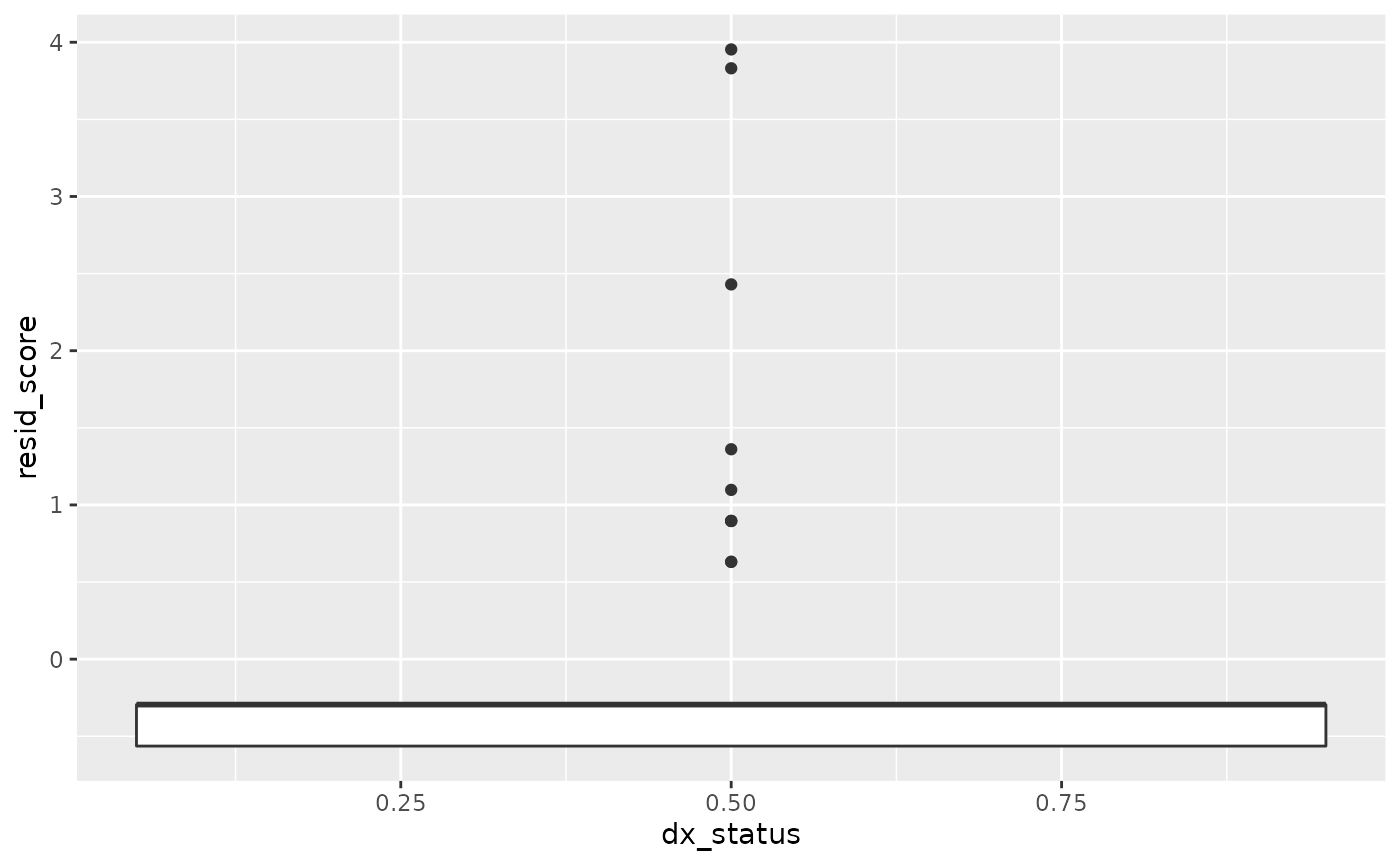
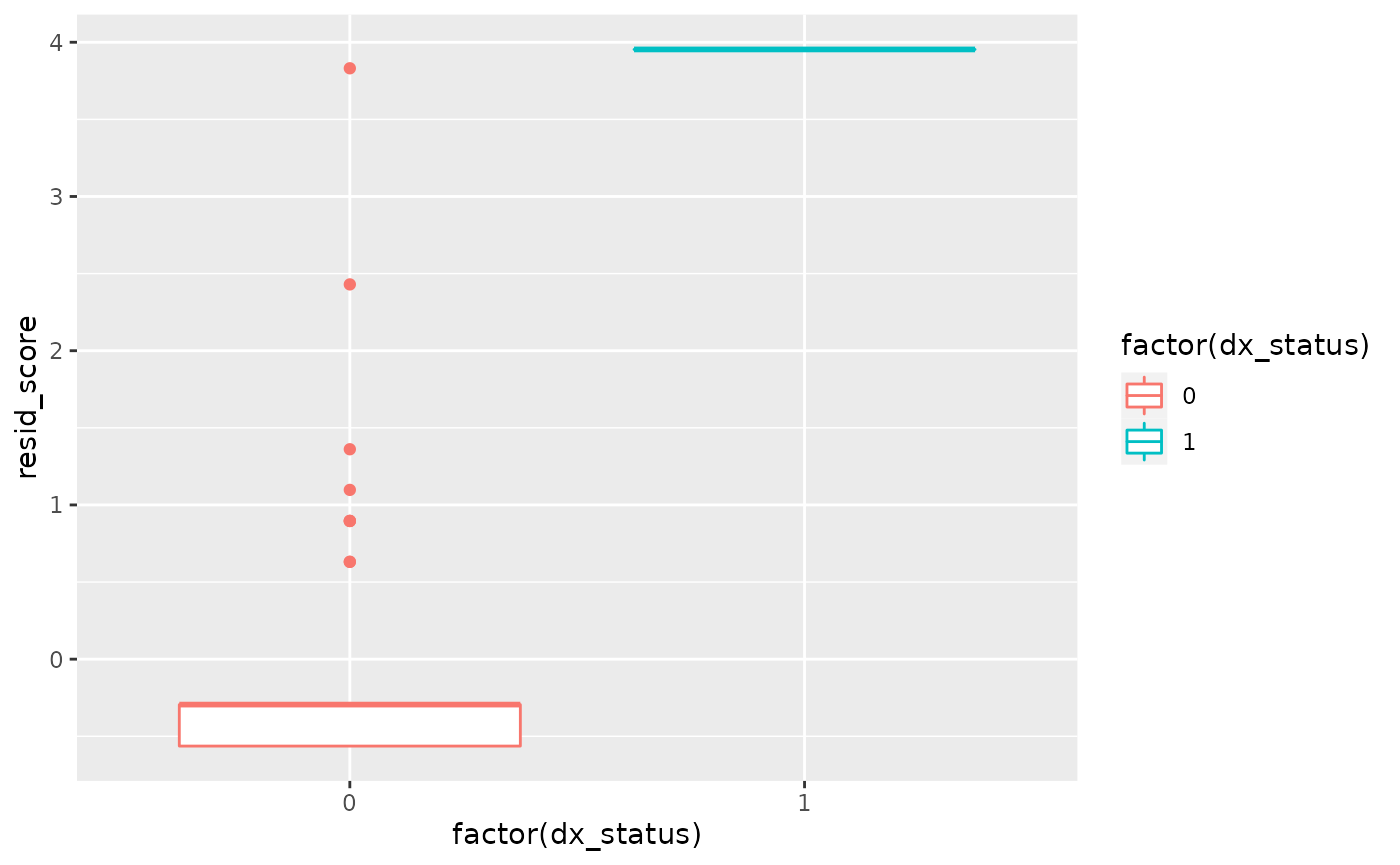
Built site for phers: 0.0.0.9000@0c04c74

diff --git a/articles/generate_phers.html b/articles/generate_phers.html
@@ -134,27 +134,27 @@
 
 <span class="va">genoStats</span>
 <span class="co">#&gt;       vid gene disease_id n_total n_wt n_het n_hom        beta        se</span>
-<span class="co">#&gt;  1:  snp1 FBN1     154700      50   37     6     7  0.09127495 0.3104743</span>
-<span class="co">#&gt;  2: snp10 FBN1     154700      50   38     8     4  0.13439432 0.3551369</span>
-<span class="co">#&gt;  3:  snp2 FBN1     154700      50   38     8     4 -0.26837334 0.3512867</span>
-<span class="co">#&gt;  4:  snp3 FBN1     154700      50   40     8     2 -0.12225112 0.4215441</span>
-<span class="co">#&gt;  5:  snp4 FBN1     154700      50   39     9     2 -0.03967130 0.4137205</span>
-<span class="co">#&gt;  6:  snp5 FBN1     154700      50   38     8     4 -0.50278048 0.3451162</span>
-<span class="co">#&gt;  7:  snp6 FBN1     154700      50   38     7     5 -0.42262633 0.3265978</span>
-<span class="co">#&gt;  8:  snp7 FBN1     154700      50   40    10     0 -0.26154723 0.5389608</span>
-<span class="co">#&gt;  9:  snp8 FBN1     154700      50   42     7     1  0.15215544 0.4996790</span>
-<span class="co">#&gt; 10:  snp9 FBN1     154700      50   43     6     1 -0.54231663 0.5121399</span>
-<span class="co">#&gt;          pval   ci_lower  ci_upper</span>
-<span class="co">#&gt;  1: 0.7700634 -0.5172435 0.6997934</span>
-<span class="co">#&gt;  2: 0.7068155 -0.5616613 0.8304499</span>
-<span class="co">#&gt;  3: 0.4487021 -0.9568826 0.4201359</span>
-<span class="co">#&gt;  4: 0.7730859 -0.9484624 0.7039602</span>
-<span class="co">#&gt;  5: 0.9240163 -0.8505486 0.7712060</span>
-<span class="co">#&gt;  6: 0.1518083 -1.1791958 0.1736348</span>
-<span class="co">#&gt;  7: 0.2019789 -1.0627463 0.2174937</span>
-<span class="co">#&gt;  8: 0.6297318 -1.3178911 0.7947966</span>
-<span class="co">#&gt;  9: 0.7620864 -0.8271975 1.1315083</span>
-<span class="co">#&gt; 10: 0.2950469 -1.5460924 0.4614591</span></code></pre></div>
+<span class="co">#&gt;  1:  snp1 FBN1     154700      50   37    10     3  0.27263077 0.3759033</span>
+<span class="co">#&gt;  2: snp10 FBN1     154700      50   38     9     3 -0.52848254 0.3713591</span>
+<span class="co">#&gt;  3:  snp2 FBN1     154700      50   39     8     3 -0.55260749 0.3851431</span>
+<span class="co">#&gt;  4:  snp3 FBN1     154700      50   39     7     4 -0.38751940 0.3511258</span>
+<span class="co">#&gt;  5:  snp4 FBN1     154700      50   41     9     0  0.99842141 0.5429626</span>
+<span class="co">#&gt;  6:  snp5 FBN1     154700      50   42     7     1 -0.35546086 0.4986978</span>
+<span class="co">#&gt;  7:  snp6 FBN1     154700      50   40     7     3 -0.31277313 0.3847088</span>
+<span class="co">#&gt;  8:  snp7 FBN1     154700      50   38    10     2  0.07218095 0.4213235</span>
+<span class="co">#&gt;  9:  snp8 FBN1     154700      50   40     6     4 -0.10532948 0.3607539</span>
+<span class="co">#&gt; 10:  snp9 FBN1     154700      50   40     7     3  0.76430189 0.3742402</span>
+<span class="co">#&gt;           pval    ci_lower  ci_upper</span>
+<span class="co">#&gt;  1: 0.47188322 -0.46412617 1.0093877</span>
+<span class="co">#&gt;  2: 0.16131032 -1.25633294 0.1993679</span>
+<span class="co">#&gt;  3: 0.15796215 -1.30747407 0.2022591</span>
+<span class="co">#&gt;  4: 0.27536439 -1.07571326 0.3006745</span>
+<span class="co">#&gt;  5: 0.07226149 -0.06576575 2.0626086</span>
+<span class="co">#&gt;  6: 0.47950706 -1.33289055 0.6219688</span>
+<span class="co">#&gt;  7: 0.42031024 -1.06678852 0.4412423</span>
+<span class="co">#&gt;  8: 0.86470800 -0.75359800 0.8979599</span>
+<span class="co">#&gt;  9: 0.77159413 -0.81239413 0.6017352</span>
+<span class="co">#&gt; 10: 0.04675700  0.03080457 1.4977992</span></code></pre></div>
 <p>run positive control analysis</p>
 <div class="sourceCode" id="cb4"><pre class="downlit sourceCode r">
 <code class="sourceCode R"><span class="va">dxStatus</span> <span class="op">=</span> <span class="fu"><a href="../reference/getDxStatus.html">getDxStatus</a></span><span class="op">(</span><span class="va">demoSample</span>, <span class="va">icdSample</span><span class="op">)</span>
@@ -162,8 +162,7 @@
 <span class="va">plotInput</span> <span class="op">=</span> <span class="fu"><a href="https://Rdatatable.gitlab.io/data.table/reference/merge.html" class="external-link">merge</a></span><span class="op">(</span><span class="va">rscores</span>, <span class="va">dxStatus</span>, by <span class="op">=</span> <span class="fu"><a href="https://rdrr.io/r/base/c.html" class="external-link">c</a></span><span class="op">(</span><span class="st">'person_id'</span>, <span class="st">'disease_id'</span><span class="op">)</span><span class="op">)</span>
 
 <span class="fu"><a href="https://ggplot2.tidyverse.org/reference/ggplot.html" class="external-link">ggplot</a></span><span class="op">(</span><span class="va">plotInput</span><span class="op">[</span><span class="va">disease_id</span> <span class="op"><a href="https://rdrr.io/r/base/match.html" class="external-link">%in%</a></span> <span class="va">diseaseIds</span><span class="op">]</span><span class="op">)</span> <span class="op">+</span> <span class="fu"><a href="https://ggplot2.tidyverse.org/reference/geom_boxplot.html" class="external-link">geom_boxplot</a></span><span class="op">(</span>
-  <span class="fu"><a href="https://ggplot2.tidyverse.org/reference/aes.html" class="external-link">aes</a></span><span class="op">(</span>x <span class="op">=</span> <span class="va">dx_status</span>, y <span class="op">=</span> <span class="va">resid_score</span>, color <span class="op">=</span> <span class="va">dx_status</span><span class="op">)</span><span class="op">)</span>
-<span class="co">#&gt; Warning: Continuous x aesthetic -- did you forget aes(group=...)?</span></code></pre></div>
+  <span class="fu"><a href="https://ggplot2.tidyverse.org/reference/aes.html" class="external-link">aes</a></span><span class="op">(</span>x <span class="op">=</span> <span class="fu"><a href="https://rdrr.io/r/base/factor.html" class="external-link">factor</a></span><span class="op">(</span><span class="va">dx_status</span><span class="op">)</span>, y <span class="op">=</span> <span class="va">resid_score</span>, color <span class="op">=</span> <span class="fu"><a href="https://rdrr.io/r/base/factor.html" class="external-link">factor</a></span><span class="op">(</span><span class="va">dx_status</span><span class="op">)</span><span class="op">)</span><span class="op">)</span></code></pre></div>
 <p><img src="generate_phers_files/figure-html/unnamed-chunk-4-1.png" width="700"></p>
   </div>
 

diff --git a/reference/getDxStatus.html b/reference/getDxStatus.html
@@ -60,7 +60,12 @@
     </div>
 
     <div id="ref-usage">
-    <div class="sourceCode"><pre class="sourceCode r"><code><span class="fu">getDxStatus</span><span class="op">(</span><span class="va">demos</span>, <span class="va">icdOccurrences</span>, diseaseDxIcdMap <span class="op">=</span> <span class="fu">phers</span><span class="fu">::</span><span class="va"><a href="diseaseDxIcdMap.html">diseaseDxIcdMap</a></span><span class="op">)</span></code></pre></div>
+    <div class="sourceCode"><pre class="sourceCode r"><code><span class="fu">getDxStatus</span><span class="op">(</span>
+  <span class="va">demos</span>,
+  <span class="va">icdOccurrences</span>,
+  minUniqDates <span class="op">=</span> <span class="fl">2</span>,
+  diseaseDxIcdMap <span class="op">=</span> <span class="fu">phers</span><span class="fu">::</span><span class="va"><a href="diseaseDxIcdMap.html">diseaseDxIcdMap</a></span>
+<span class="op">)</span></code></pre></div>
     </div>
 
     <div id="arguments">
@@ -70,7 +75,11 @@
 a column <code>person_id</code>.</p></dd>
 <dt>icdOccurrences</dt>
 <dd><p>A data.table of occurrences of ICD codes for each
-person in the cohort. Must have columns <code>person_id</code>, <code>icd</code>, and <code>flag</code>.</p></dd>
+person in the cohort.
+Must have columns <code>person_id</code>, <code>icd</code>, <code>flag</code>, and <code>entry_date</code>.</p></dd>
+<dt>minUniqDates</dt>
+<dd><p>Positive integer indicating the minimum number of unique
+ICD code entry dates required to classify a person as a case.</p></dd>
 <dt>diseaseDxIcdMap</dt>
 <dd><p>A data.table containing mapping between diseases and
 the icd codes that represent being diagnosed with them. Must have columns

diff --git a/reference/icdSample.html b/reference/icdSample.html
@@ -67,12 +67,14 @@
 
     <div id="format">
     <h2>Format</h2>
-    <p>A data table with 134 rows and the 3 following columns:</p><ul><li><p><code>person_id</code>: Character vector of the identifier for each
+    <p>A data table with 141 rows and the 4 following columns:</p><ul><li><p><code>person_id</code>: Character vector of the identifier for each
 person</p></li>
 <li><p><code>icd</code>: Character vector containing the ICD codes recorded
 for each person</p></li>
 <li><p><code>flag</code>: Numeric vector representing the vocabulary of the
 ICD code (<strong>9</strong>: ICD-9-CM,  <strong>10</strong>: ICD-10-CM)</p></li>
+<li><p><code>entry_date</code>: vector of type <code>Date</code> indicating the date ICD code was
+recorded.</p></li>
 </ul></div>
     <div id="see-also">
     <h2>See also</h2>
